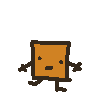
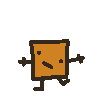
cooler boxes

diff --git a/TypingGame/TypingGame.cs b/TypingGame/TypingGame.cs
@@ -88,10 +88,13 @@ public partial class TypingGame : CanvasLayer
         box.Reparent(ActiveBoxContainer);
 
         var tween = GetTree().CreateTween();
+        tween.TweenProperty(ActiveBox, "scale", new Vector2(1.0f, 0.95f), 0.01f);
         ActiveBoxContainer.Position = new Vector2(-200, 830);
-        tween.TweenProperty(ActiveBoxContainer, "position", new Vector2(175, 830), 0.35);
-        tween.TweenProperty(ActiveBoxContainer, "scale", new Vector2(1.6f, 1.6f), 0.03);
-        tween.TweenProperty(ActiveBoxContainer, "scale", new Vector2(1.5f, 1.5f), 0.02);
+        tween.TweenProperty(ActiveBoxContainer, "position", new Vector2(175, 830), 0.3);
+        tween.TweenProperty(ActiveBox, "rotation", 0.2f, 0.1);
+        tween.TweenProperty(ActiveBox, "scale", Vector2.One, 0.01f);
+        tween.TweenProperty(ActiveBox, "rotation", 0f, 0.1);
+
 
         for (int i = 0; i < box.Damage; i++)
         {

diff --git a/TypingGame/InventoryBox.cs b/TypingGame/InventoryBox.cs
@@ -27,10 +27,10 @@ public partial class InventoryBox : TextureRect
         {
             Initiated = true;
             var tween = GetTree().CreateTween();
+            tween.TweenProperty(this, "rotation", 0.2f, 0.1);
+            tween.TweenProperty(this, "rotation", 0f, 0.1);
             var tween2 = GetTree().CreateTween();
             Scale = new Vector2(0.1f, 0.1f);
-            PivotOffset = new Vector2(100, 100);
-            tween.TweenProperty(this, "pivot_offset", new Vector2(0, 0), 0.11);
             tween2.TweenProperty(this, "scale", new Vector2(1, 1), 0.11);
             tween2.TweenProperty(this, "scale", new Vector2(1.1f, 1.1f), 0.03);
             tween2.TweenProperty(this, "scale", new Vector2(1, 1), 0.02);
